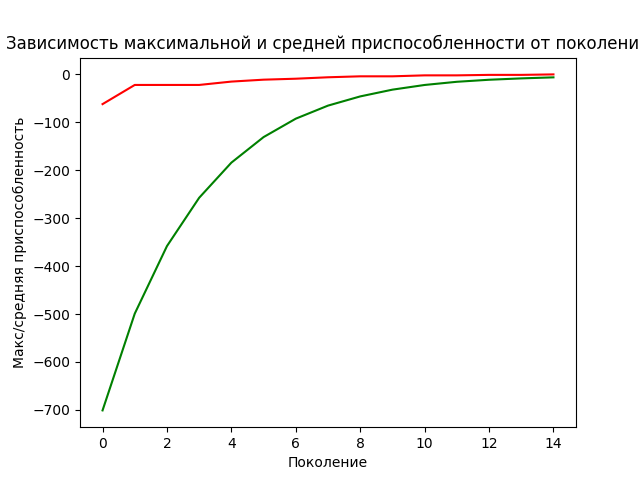
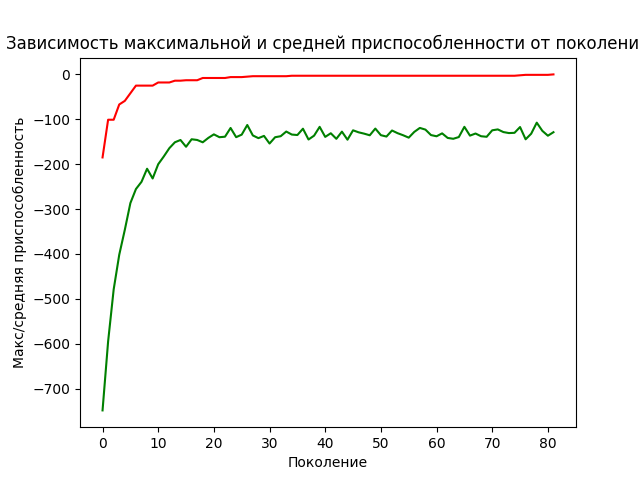
del onemax hard add utils module my timeit

diff --git a/RocksNums/Rocks.py b/RocksNums/Rocks.py
@@ -5,21 +5,25 @@ from copy import deepcopy
 
 from matplotlib import pyplot as plt
 
+from utils.timeit import timeit_our
+
 FITNESS_LIST_STANDARD = [50, 32, 232, 236]
 # FITNESS_LIST_STANDARD = [8, 12, 16, 20]
 # kek = [[2,2,2,2],[3,3,3,3],[4,4,4,4],[5,5,5,5]]
 
-POPULATION_SIZE = 15000  # количество индивидуумов в популяции
+POPULATION_SIZE = 500  # количество индивидуумов в популяции
 
 P_CROSSOVER = 0.9  # вероятность скрещивания
-P_MUTATION = 0.1  # вероятность мутации индивидуума
-MAX_GENERATIONS = 50  # максимальное количество поколений
+P_MUTATION = 0.3  # вероятность мутации индивидуума
+MAX_GENERATIONS = 500  # максимальное количество поколений
 
 IN_DEEP = 5
 IN_WIDTH = 4
 
 RANDOM_SEED = 20
-random.seed(RANDOM_SEED)
+
+
+# random.seed(RANDOM_SEED)
 
 
 def first_generation() -> List[list]:
@@ -47,12 +51,13 @@ def setTournament(population: list) -> List[list]:
     ret = []
     p_len = len(population)
     for _ in range(p_len):
-        ind1 = ind2 = ind3 = 0
+        ind1 = ind2 = ind3 = ind4 = 0
         while ind1 == ind2 or ind2 == ind3 or ind3 == ind1:
-            ind1, ind2, ind3 = random.randint(0, p_len - 1), random.randint(0, p_len - 1), random.randint(0,
-                                                                                                          p_len - 1)
+            ind1, ind2, ind3 = random.randint(0, p_len - 1), random.randint(0, p_len - 1), \
+                               random.randint(0, p_len - 1)
 
-        ret.append(deepcopy(max([population[ind1], population[ind2], population[ind3]], key=getFitnessIndividual)))
+        ret.append(deepcopy(max([population[ind1], population[ind2], population[ind3]],
+                                key=getFitnessIndividual)))
     return ret
 
 
@@ -63,12 +68,13 @@ def exchangeGenes(parent1: list, parent2: list):
 
 
 def mutation(individ, propability):
-    for i in enumerate(individ):
-        for j in i:
+    for ind, value in enumerate(individ):
+        for j in range(len(value)):
             if random.random() < propability:
-                j = random.randint(-200, 200)
+                individ[ind][j] = random.randint(-200, 200)
 
 
+@timeit_our
 def main():
     iteration = 0
     max_fittness = -1000

diff --git a/utils/timeit.py b/utils/timeit.py
@@ -1,0 +1,16 @@
+from time import time
+
+
+def timeit_our(method):
+    def timed(*args, **kw):
+        ts = time()
+        result = method(*args, **kw)
+        te = time()
+        if 'log_time' in kw:
+            name = kw.get('log_name', method.__name__.upper())
+            kw['log_time'][name] = int((te - ts) * 1000)
+        else:
+            print(f'{method.__name__}, {(te - ts) * 1000}')
+        return result
+
+    return timed
